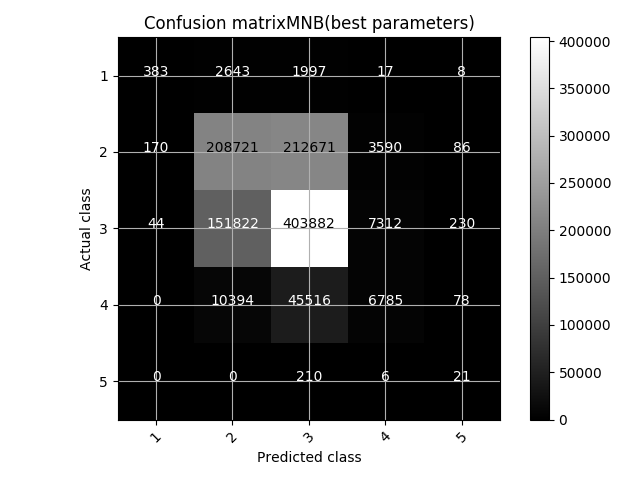
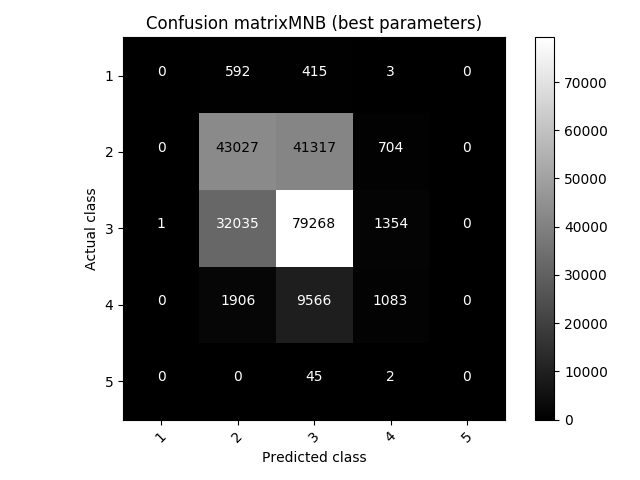
Testes como outras tecnicas de balanceamento

diff --git a/dissertacao/5_1_selecao_modelo.py b/dissertacao/5_1_selecao_modelo.py
@@ -13,7 +13,7 @@ from imblearn.under_sampling import EditedNearestNeighbours
 from sklearn.ensemble import RandomForestClassifier, AdaBoostClassifier
 from sklearn.feature_selection import RFECV
 from sklearn.metrics import confusion_matrix, classification_report
-from sklearn.model_selection import cross_val_predict, GridSearchCV, StratifiedKFold, train_test_split
+from sklearn.model_selection import GridSearchCV, StratifiedKFold, train_test_split
 from sklearn.naive_bayes import MultinomialNB
 from sklearn.neighbors import KNeighborsClassifier
 from sklearn.neural_network import MLPClassifier
@@ -29,24 +29,23 @@ dados_completo.drop(dados_completo.columns[0], axis=1, inplace=True)
 dados_completo.drop(['other_incentives', 'total_area_confinement', 'area_20_erosion', 'quality_programs',
                      'lfi', 'fertigation', 'microrregiao#_BaixoPantanal'],
                     axis=1, inplace=True)
+print(dados_completo.shape)
 Y = dados_completo.pop('carcass_fatness_degree')
 X = dados_completo
 
 random_state = 42
-n_jobs = 2
+n_jobs = 3
 
-dados_completo_x, test_x, dados_completo_y, test_y = train_test_split(X, Y, test_size=0.60, stratify=Y,
+dados_completo_x, test_x, dados_completo_y, test_y = train_test_split(X, Y, test_size=0.2, stratify=Y,
                                                                       random_state=random_state)
 dados_completo = dados_completo_x.join(dados_completo_y)
 print(dados_completo.head())
-
+print(dados_completo.shape)
 
 enn = EditedNearestNeighbours(n_jobs=n_jobs, n_neighbors=5, random_state=random_state)
 smote = SMOTE(n_jobs=n_jobs, random_state=random_state)
 smoteenn = SMOTEENN(enn=EditedNearestNeighbours(n_jobs=n_jobs, n_neighbors=n_jobs), smote=SMOTE(n_jobs=n_jobs),
                     random_state=random_state)
-X_completo, Y_completo = dados_completo.drop('carcass_fatness_degree', axis=1), \
-                         dados_completo['carcass_fatness_degree']
 
 
 class Mypipeline(Pipeline):
@@ -71,15 +70,15 @@ rfc_coef = RandomForestClassifier(random_state=random_state, class_weight='balan
 def fazer_selecao_features_rfe():
     pipeline = Mypipeline([('bal', enn),
                            ('clf', rfc_coef)])
-    features = X_completo.columns
+    features = dados_completo_x.columns
     rfe = RFECV(estimator=pipeline, cv=kfold, scoring='f1_weighted', n_jobs=5)
 
-    rfe.fit(X_completo, Y_completo.values.ravel())
+    rfe.fit(dados_completo_x, dados_completo_y.values.ravel())
     print("Caraterísticas ordenadas pelo rank RFE:")
     print(sorted(zip(map(lambda x: round(x, 4), rfe.ranking_), features)))
     ranking = sorted(zip(rfe.support_, features))
     print("Características selecionadas", ranking)
-    return rfe.transform(X_completo)
+    return rfe.transform(dados_completo_x)
 
 
 # print(fazer_selecao_features_rfe())
@@ -115,10 +114,6 @@ def plot_confusion_matrix(cm, nome, classes,
                           normalize=False,
                           title='Confusion matrix',
                           cmap=plt.cm.gray):
-    """
-    This function prints and plots the confusion matrix.
-    Normalization can be applied by setting `normalize=True`.
-    """
     plt.figure()
     if normalize:
         cm = cm.astype('float') / cm.sum(axis=1)[:, np.newaxis]
@@ -143,8 +138,9 @@ def plot_confusion_matrix(cm, nome, classes,
 
     plt.ylabel('Actual class')
     plt.xlabel('Predicted class')
-    plt.grid('off')
     plt.tight_layout()
+    plt.grid('off')
+    plt.grid(None)
     plt.savefig('figuras/' + nome_arquivo)
 
 
@@ -161,9 +157,9 @@ def model_select():
             print()
 
             np.set_printoptions(precision=4)
-            grid_search = GridSearchCV(pipeline, escolher_parametros(), cv=kfold, refit=True, n_jobs=5,
+            grid_search = GridSearchCV(pipeline, escolher_parametros(), cv=kfold, refit=True, n_jobs=n_jobs,
                                        scoring=score, verbose=2)
-            grid_search.fit(X_completo, Y_completo)
+            grid_search.fit(dados_completo_x, dados_completo_y)
 
             print("Best parameters set found on development set:")
             print()
@@ -183,10 +179,8 @@ def model_select():
             print("The model is trained on the full development set.")
             print("The scores are computed on the full evaluation set.")
             print()
-            pipeline = Pipeline([('bal', balanceador),
-                                 ('clf', grid_search.best_estimator_)])
-            y_pred = cross_val_predict(pipeline, X_completo, Y_completo, cv=kfold, n_jobs=n_jobs)
-            matriz_confusao = confusion_matrix(Y_completo, y_pred)
+            y_pred = grid_search.predict(test_x)
+            matriz_confusao = confusion_matrix(test_y, y_pred)
             nome_arquivo = nome + '_' + nome_balanceador + '_' + score
             plot_confusion_matrix(matriz_confusao, nome_arquivo, [1, 2, 3, 4, 5], False,
                                   title='Confusion matrix' + nome + ' (best parameters)')
@@ -194,12 +188,12 @@ def model_select():
                                   title='Confusion matrix ' + nome + ', normalized')
             print('Matriz de Confusão')
             print(matriz_confusao)
-            print(classification_report(y_true=Y_completo, y_pred=y_pred, digits=4))
-            y_pred = cross_val_predict(pipeline, X_completo, Y_completo, cv=kfold, n_jobs=n_jobs,
-                                       method='predict_proba')
-            roc_auc_aux(Y_completo, y_pred, nome, nome_balanceador, score)
+            print(classification_report(y_true=test_y, y_pred=y_pred, digits=4))
+            y_pred = grid_search.predict_proba(test_x)
+            roc_auc_aux(test_y, y_pred, nome, nome_balanceador, score)
             print()
             sys.stdout.flush()
+            exit()
 
 
 def escolher_parametros():
